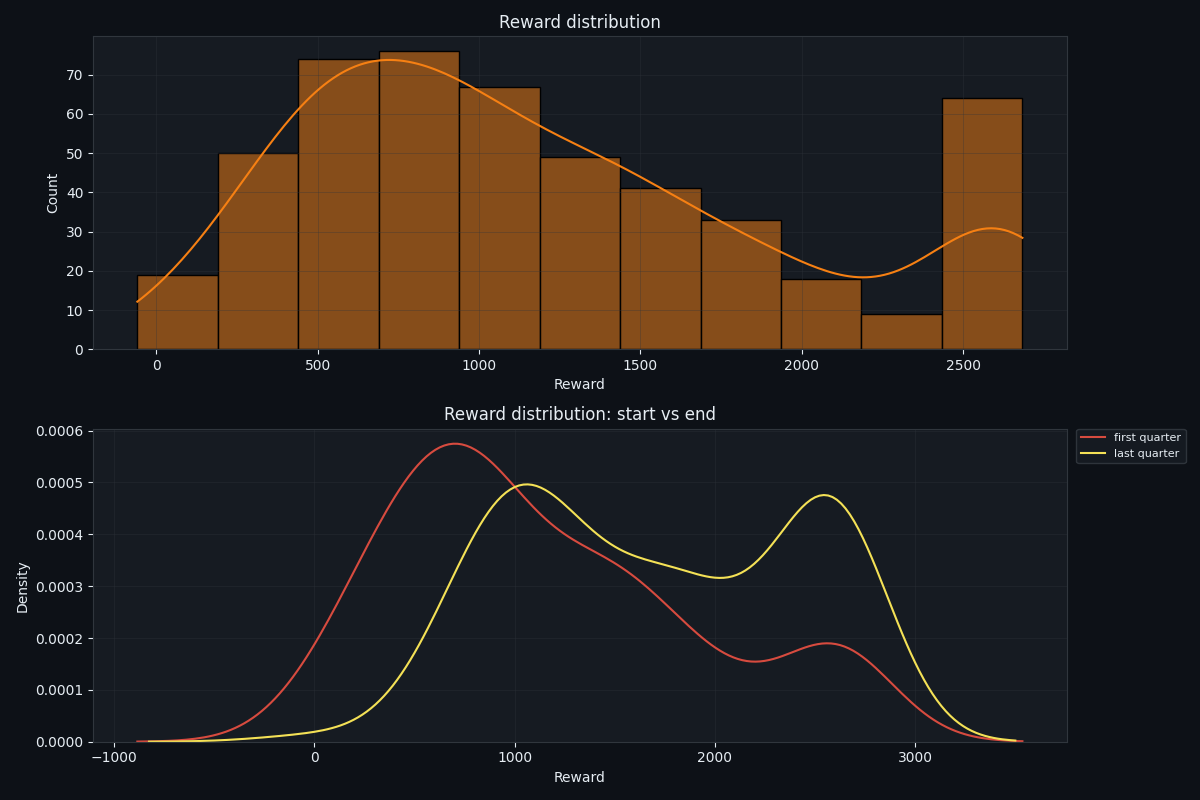
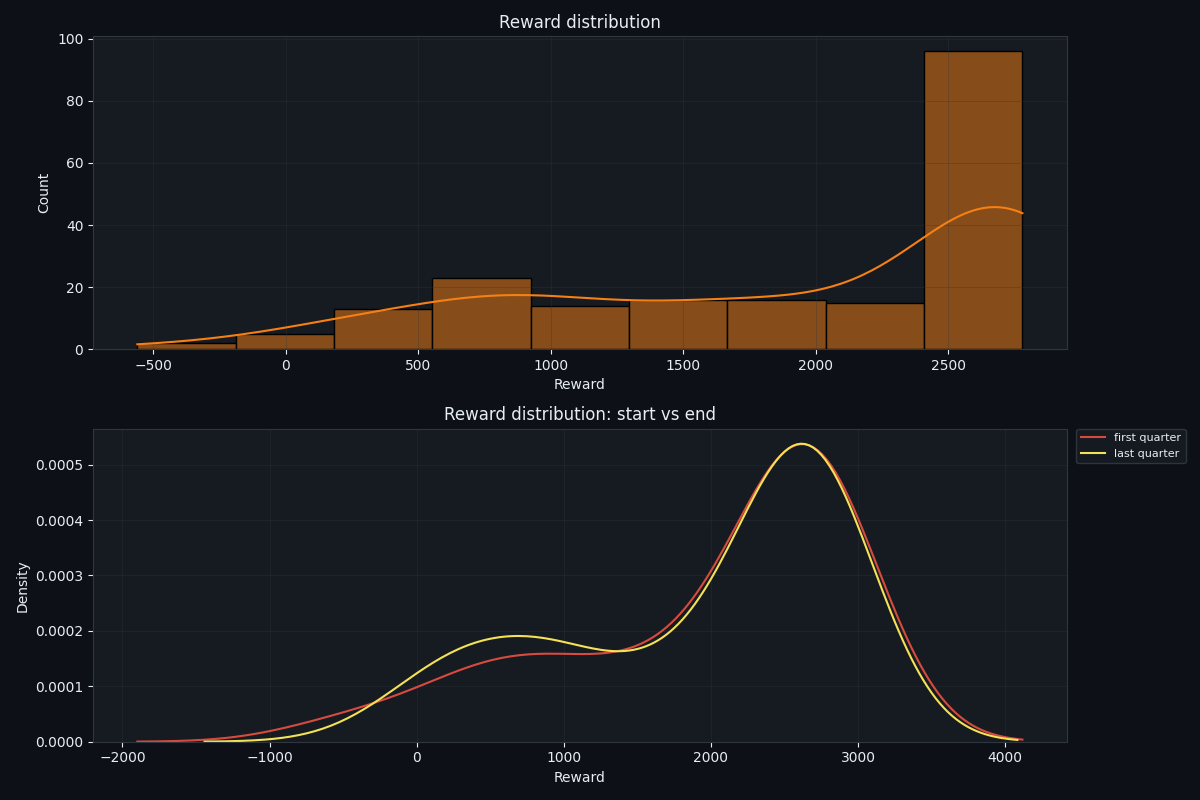
no terminate bool

diff --git a/tests/test_two_node_contract.py b/tests/test_two_node_contract.py
@@ -816,6 +816,7 @@ class TwoNodeEnvironmentTests(unittest.TestCase):
         custom = dict(config)
         custom["capture_drop_grace_steps"] = 1
         custom["capture_drop_truncation_steps"] = 2
+        custom["capture_drop_terminates_episode"] = True
         env = PendulumEnv(
             reward_manager=RewardManager(custom),
             env_config=custom,
@@ -840,6 +841,30 @@ class TwoNodeEnvironmentTests(unittest.TestCase):
         self.assertTrue(terminated)
         self.assertFalse(truncated)
         self.assertEqual("capture_drop_failure", end_info["termination_reason"])
+
+    def test_capture_vertical_continues_after_drop_when_termination_disabled(self):
+        custom = dict(config)
+        custom["capture_drop_grace_steps"] = 1
+        custom["capture_drop_truncation_steps"] = 2
+        custom["capture_drop_terminates_episode"] = False
+        env = PendulumEnv(
+            reward_manager=RewardManager(custom),
+            env_config=custom,
+        )
+        env.reset(episode_mode="capture_vertical")
+        env.current_state[1] = -math.pi / 2
+        env.current_state[2] = -math.pi / 2
+        env.rhs = mock.Mock(return_value=np.zeros_like(env.current_state))
+
+        env.step(0.0)
+        _state, _reward, terminated, truncated, drop_info = env.step(0.0)
+        self.assertTrue(drop_info["capture_drop"])
+        self.assertFalse(terminated)
+
+        for _ in range(4):
+            _state, _reward, terminated, truncated, _info = env.step(0.0)
+            self.assertFalse(terminated)
+            self.assertFalse(truncated)
 
     def test_down_to_up_does_not_get_capture_drop_penalty(self):
         custom = dict(config)

diff --git a/config.py b/config.py
@@ -81,6 +81,7 @@ config = {
     'capture_drop_target_score_threshold': 0.5,
     'capture_drop_grace_steps': 20,
     'capture_drop_truncation_steps': 75,
+    'capture_drop_terminates_episode': False,
     'hold_progress_bonus': 100.0,
     'action_l2_penalty': 0.5,
     'action_delta_penalty': 3.0,
@@ -124,7 +125,7 @@ def validate_config(cfg):
         'capture_in_target_step_bonus',
         'capture_drop_base_penalty', 'capture_drop_remaining_penalty',
         'capture_drop_target_score_threshold', 'capture_drop_grace_steps',
-        'capture_drop_truncation_steps',
+        'capture_drop_truncation_steps', 'capture_drop_terminates_episode',
         'hold_progress_bonus', 'action_l2_penalty', 'action_delta_penalty',
         'saturation_penalty',
         'render_training', 'render_every_episodes', 'render_first_episode',
@@ -261,7 +262,7 @@ def validate_config(cfg):
             raise ValueError(f"plot_config[{key!r}] must be a positive integer")
     for key in (
         'load_models', 'normalize_advantages', 'adaptive_curriculum_enabled',
-        'render_training', 'render_first_episode',
+        'render_training', 'render_first_episode', 'capture_drop_terminates_episode',
     ):
         if not isinstance(cfg[key], bool):
             raise ValueError(f"config[{key!r}] must be bool")

diff --git a/tp_env.py b/tp_env.py
@@ -591,7 +591,8 @@ class PendulumEnv:
         # Conditions de fin d'épisode (rail, échec capture, ou horizon)
         self.cart_limit_streak = self.cart_limit_streak + 1 if hit_cart_limit else 0
         capture_drop_truncated = bool(
-            self.capture_drop_step is not None
+            self.config['capture_drop_terminates_episode']
+            and self.capture_drop_step is not None
             and self.num_steps
             >= self.capture_drop_step + int(self.config['capture_drop_truncation_steps'])
         )